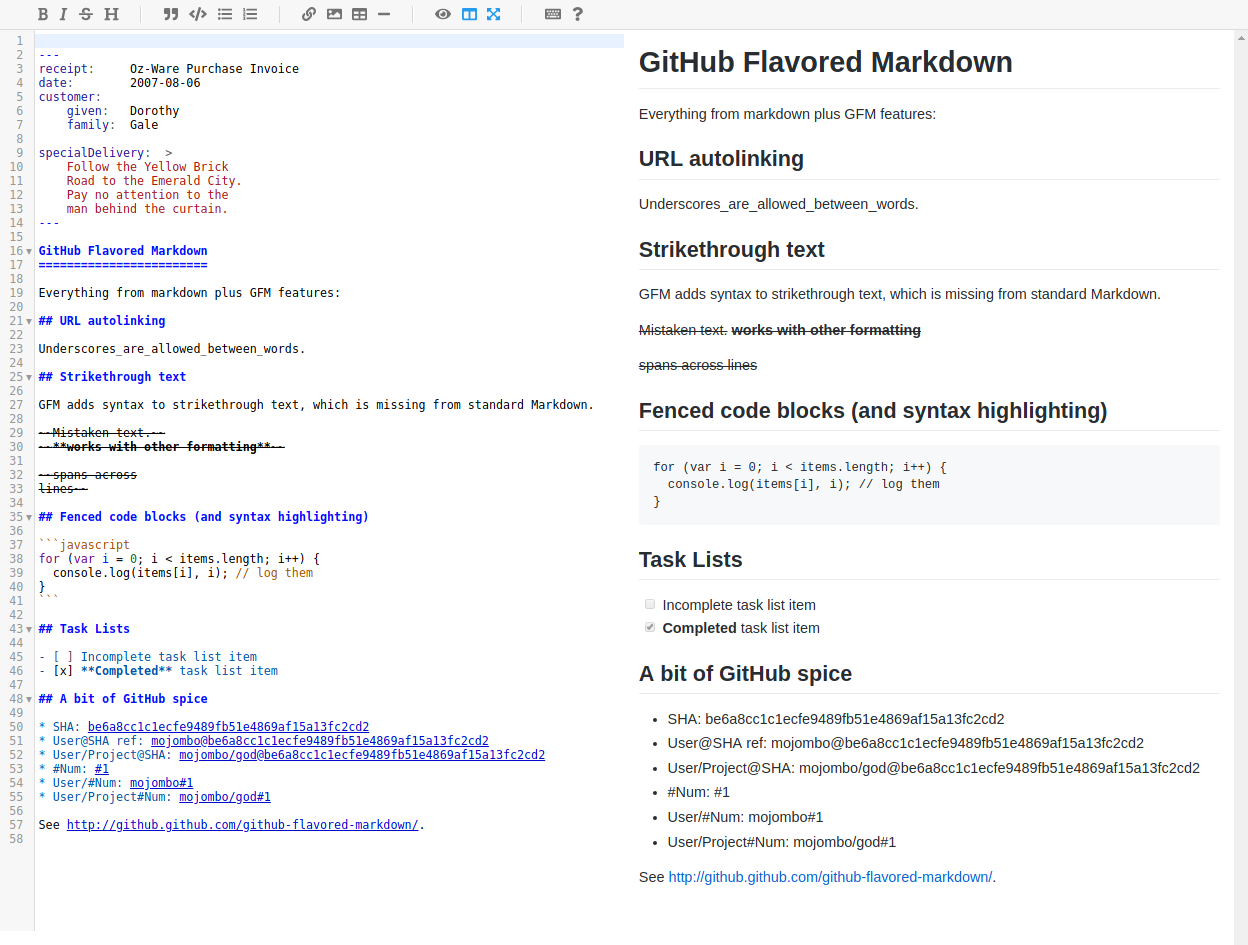
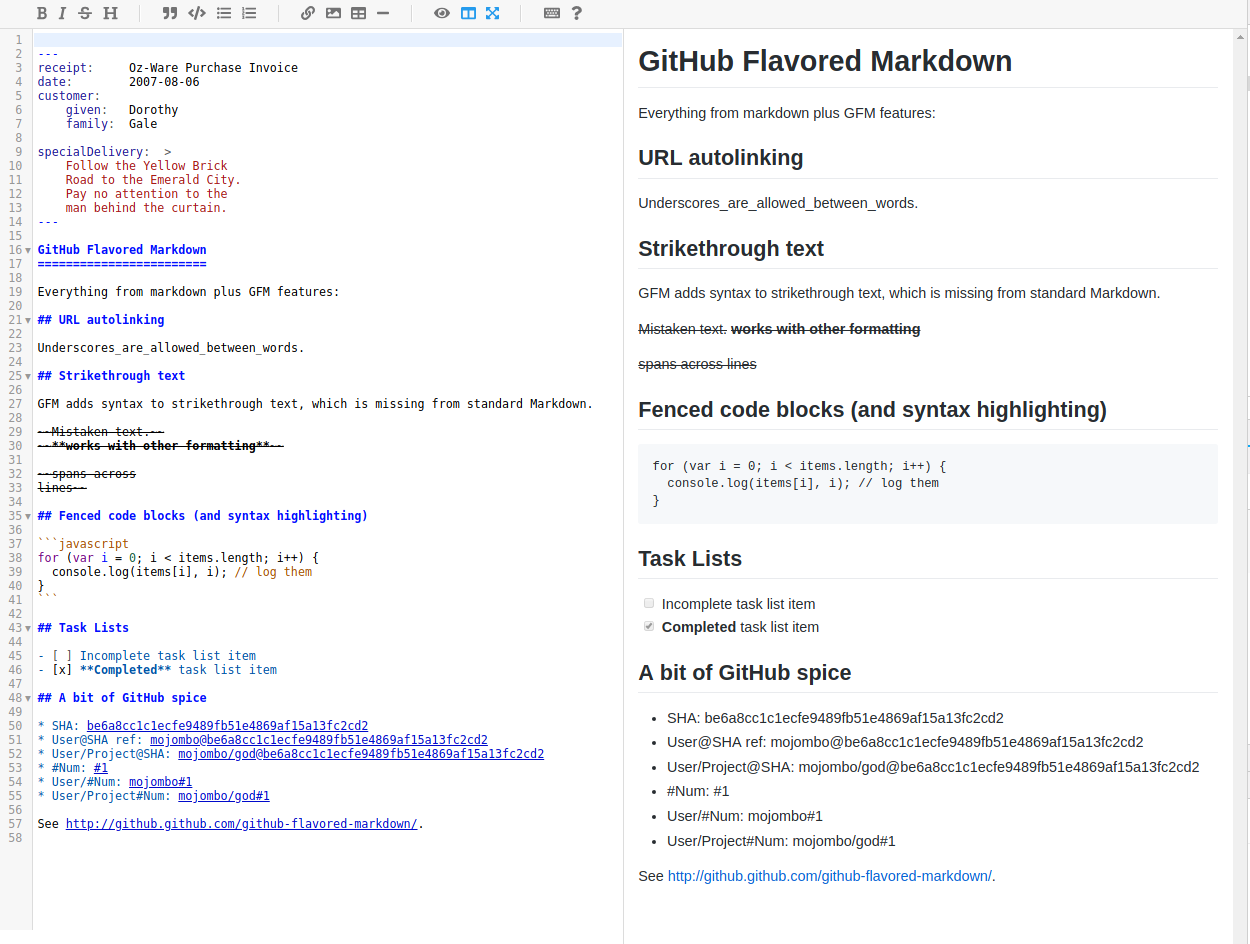
Improved README and demo

diff --git a/server/index.tsx b/server/index.tsx
@@ -5,7 +5,6 @@ import 'codemirror/addon/fold/foldgutter.css'
 import 'codemirror/addon/scroll/simplescrollbars.css'
 import 'codemirror/addon/dialog/dialog.css'
 import 'codemirror/addon/search/matchesonscrollbar.css'
-import 'codemirror/addon/search/matchesonscrollbar.css'
 
 import '../src/matchhighlighter.css'
 import '../src/remarkdown.css'

diff --git a/src/remarkdown.css b/src/remarkdown.css
@@ -52,6 +52,7 @@
 
 .remarkdown-splitpane-preview {
     width: 100%;
+    border-left: 1px solid #ddd;
 }
 
 .remarkdown-fullscreen {

diff --git a/README.md b/README.md
@@ -2,12 +2,12 @@
 
 ## Introduction
 
-ReMarkdown is a React professional grade markdown editor based on CodeMirror, for programmers and professional techdoc writters.
+ReMarkdown is a professional grade React markdown editor based on CodeMirror, for programmers and professional tech writters.
 
 It provides following features for more sophiscated markdown editing:
 
-- Frontmatters, YAML / TOML /JSON, which is the main reason for ReMarkdown
-- Keymap, Vim / Ssublime / Emacs, and obviously default
+- Frontmatters, YAML / TOML /JSON, which is the main reason for devloping ReMarkdown
+- Keymap, Vim / Sublime / Emacs, and obviously default
 - Line numbers
 - Block folding
 - Preview / Fullscreen / Editing and live preview
@@ -28,7 +28,7 @@ ReMarkdown is built with Typescript. But you don't need TS to use it as a librar
 
 ### Bare editor - no menu and linenumbers
 
-![Bear](./demo/demo-default.png)
+![Bear](./demo/demo-bare.png)
 
 ### Live edit and preview
 
@@ -81,22 +81,29 @@ npm install remarkdown
 
 ### Basic usage
 
+**Important: You must import style sheets or provide your own customization**
+
 ```
 import * as React from 'react'
 import * as ReactDOM from 'react-dom'
+
+/*** Important : You must import style sheets or provide your own customization ***/
+
 import 'codemirror/lib/codemirror.css'
 import 'codemirror/addon/fold/foldgutter.css'
 import 'codemirror/addon/scroll/simplescrollbars.css'
 import 'codemirror/addon/dialog/dialog.css'
 import 'codemirror/addon/search/matchesonscrollbar.css'
-import 'codemirror/addon/search/matchesonscrollbar.css'
 
-import '../src/matchhighlighter.css'
-import '../src/remarkdown.css'
-import '../src/gitmarkdown.css'
-import '../src/keymapmenu.css'
+import 'remarkdown/matchhighlighter.css'
+import 'remarkdown/remarkdown.css'
+import 'remarkdown/gitmarkdown.css'
+import 'remarkdown/keymapmenu.css'
 
-import ReMarkdown, { EditorCore, IReMarkdownProps } from '../src/index'
+/******** Important ******************/
+
+
+import ReMarkdown, { IReMarkdownProps } from 'remarkdown'
 
 const initialValue = `
 ---
